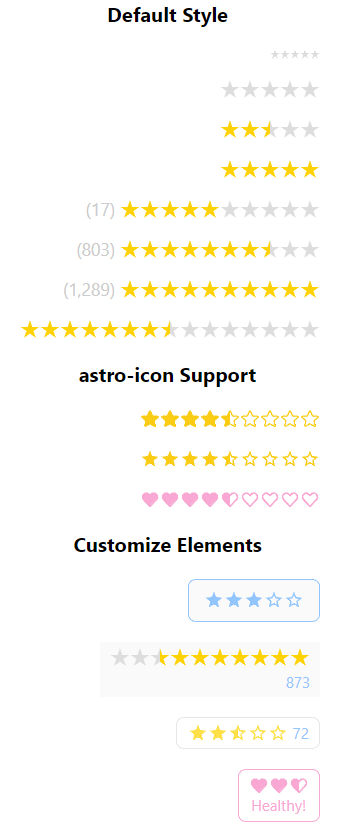
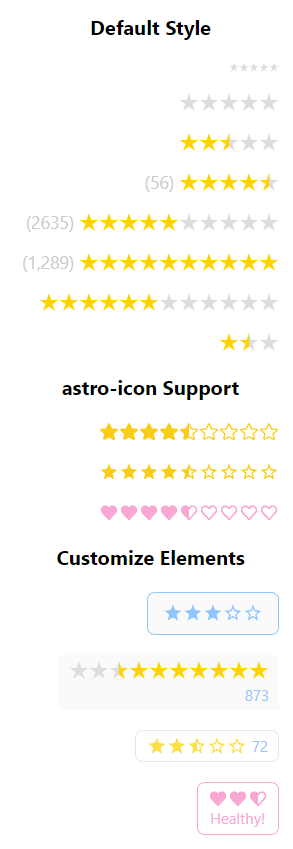
Add Rating

diff --git a/packages/rating/README.md b/packages/rating/README.md
@@ -1,159 +1,158 @@
-# @astro-bryceguy/pagination
+# @astro-bryceguy/rating
 
-This component is a fork/refactor of [https://github.com/iozcelik/SarissaPagination](https://github.com/iozcelik/SarissaPagination)
-
-A pagination component that uses [astro-json-element](https://github.com/BryceRussell/astro-json-element) to give you full control over every aspect of your pagination element
-
-[Tailwindcss](https://tailwindcss.com) is an easy way to style [astro-json-elements](https://github.com/BryceRussell/astro-json-element) without having to create global stylesheet or use inline styles
+A component that uses stars to display a rating for reviews, products, comments, etc
 
 ## Features
 
-- Customize how many page numbers are shown at the start, middle, and end
-- Fully customize every elements tag, text, innerHTML, and attributes using [astro-json-element](https://github.com/BryceRussell/astro-json-element)
-- Add commas to page numbers
-- String number compatibility
+- Shows a rate (2/5, 7.5/10, etc) using stars
+- Supports displaying half stars
+- Uses astro-icon to serve star icon svgs
+- Fully customize every elements tag, text, innerHTML, and attributes using [astro-json-elements](https://github.com/BryceRussell/astro-json-element)
+
+__NOTE:__ astro-json-elements can only be styled using inline styles or global stylesheets with classes, use [Tailwindcss](https://github.com/withastro/astro/tree/main/packages/integrations/tailwind#readme) for easy styling
 
 ## How to use
 
-__Install package:__
+__Install:__
+```
+npm i @astro-bryceguy-rating
+```
+
+__Add to astro config:__
+```
+export default defineConfig({
+  vite: {
+    ssr: {
+      external: ["svgo"],
+    },
+  },
+});
+```
+
+__Default Styling:__
+```
+<Rating max="10" rate="10" total="1289" defaults={true}/>
+```
+
+## astro-icon
+
+Define the ```active```, ```half```, and ```inactive``` stars [astro-icons](https://github.com/natemoo-re/astro-icon#readme) properties inside of the ```icon``` prop
 
 ```
-npm i @astro-bryceguy/pagination
-```
-
-![Default](https://raw.githubusercontent.com/BryceRussell/astro-bryceguy/master/packages/pagination/examples/default.PNG)
-
-```
-//Default styling
-<Pagination url="/posts" total="22" current="11" defaults={true}></Pagination>
+//Uses tailwindcss to style
+<Rating {...{
+    rate: "4.5",
+    max: "9",
+    class: "flex items-center gap-1",
+    icon: {
+        active: {
+            name: "line-md:heart-filled"
+        },
+        half: {
+            name: "line-md:heart-filled-half"
+        },
+        inactive: {
+            name: "line-md:heart"
+        },
+        class: "text-pink-300 w-4 h-4"
+    }
+}}/>
 ```
 
 ## Examples
 
-![Pagination](https://raw.githubusercontent.com/BryceRussell/astro-bryceguy/master/packages/pagination/examples/pagination.PNG)
+```
+<Rating {...{
+    rate: "3",
+    max: "5",
+    tag: "section",
+    class: "flex flex-col-reverse items-center py-2 px-3 rounded-md bg-neutral-50 border border-blue-300",
+    icon: {
+        active: {
+            name: "mdi:star"
+        },
+        half: {
+            name: "mdi:star-half-full"
+        },
+        inactive: {
+            name: "mdi:star-outline"
+        },
+        class: "text-blue-300 w-4 h-4"
+    }
+}}/>
+```
 
 ```
-<Pagination url="/posts" total="22" current="11" defaults={true}></Pagination>
-<Pagination url="/posts" total="22" current="11" start="5" end="1" middle="1" defaults={true}></Pagination>
-<Pagination url="/posts" total="22" current="11" start="1" end="5" middle="1" defaults={true}></Pagination>
-<Pagination url="/posts" total="22" current="11" start="5" end="5" middle="1" defaults={true}></Pagination>
-<Pagination url="/posts" total="22" current="11" start="1" end="1" middle="5" defaults={true}></Pagination>
-<Pagination url="/posts" total="9999" current="1000" defaults={true}></Pagination>
-<Pagination url="/posts" total="9999" current="1000" commas={false} defaults={true}></Pagination>
-<Pagination url="/posts" total="12" current="6" collapse={false} defaults={true}></Pagination>
-<Pagination url="/posts" total="12" current="6" style="display:flex;gap:.5rem;"></Pagination>
-<!-- Custom Tailwindcss Example -->
-<Pagination {...{
-    url: "/posts",
-    total: "9999",
-    current: "1000",
-    class: "flex items-center gap-1",
-    button: {
-        class: "relative flex-nowrap inline-flex items-center px-3 py-1 rounded-3xl border text-sm font-medium"
+<Rating {...{
+    rate: "7.5",
+    max: "10",
+    class: "flex flex-col-reverse items-end gap-1 py-1 px-2 bg-neutral-50",
+    _span: {
+        tag: "span",
+        text: "873",
+        class: "text-xs text-blue-300"
     },
-    active: {
-        class: "relative flex-nowrap inline-flex items-center px-3 py-1 rounded-3xl border border-purple-400 text-sm font-medium bg-purple-500 text-white"
+    icons: {
+        class: "flex flex-row-reverse items-center"
     },
-    disabled: {
-        text: "",
-        class: "leading-none flex items-center px-3"
+    icon: {
+        half: {
+            style: "transform:scale(-1, 1);"
+        },
+        class: "text-yellow-300 w-4 h-4"
+    }
+}}/>
+```
+
+```
+<Rating {...{
+    rate: "2.5",
+    max: "5",
+    class: "flex flex-row-reverse items-center gap-1 py-1 px-2 rounded-md border",
+    _span: {
+        tag: "span",
+        text: "72",
+        class: "text-xs text-blue-300"
     },
-}}></Pagination>
+    icons: {
+        class: "flex items-center"
+    },
+    icon: {
+        active: {
+            name: "mdi:star"
+        },
+        half: {
+            name: "mdi:star-half-full"
+        },
+        inactive: {
+            name: "mdi:star-outline"
+        },
+        class: "text-yellow-300 w-4 h-4",
+    }
+}}/>
 ```
 
-## API
-
-## Slots
-
-### Default
-
-Children will be slotted after all page number elements by default
-
-### first
-
-Use slot "first" to slot children in front of all page number elements
-
-## Props
-
 ```
-export interface Props {
-	url: string;
-	total: string|number;
-	current: string|number;
-	start: string|number;
-	end?: string|number;
-	middle?: string|number;
-	button?: {};
-	active?: {};
-	disabled?: {};
-	defaults?: boolean;
-	commas?: boolean;
-	collapse?: boolean;
-	[attrs: string]: any;
-}
+<Rating {...{
+    rate: "2.5",
+    max: "3",
+    class: "flex flex-col-reverse items-center py-1 px-2 rounded-md border border-pink-300",
+    _span: {
+        tag: "span",
+        text: "Healthy!",
+        class: "text-xs text-pink-300"
+    },
+    icon: {
+        active: {
+            name: "line-md:heart-filled"
+        },
+        half: {
+            name: "line-md:heart-filled-half"
+        },
+        inactive: {
+            name: "line-md:heart"
+        },
+        class: "text-pink-300 w-4 h-4"
+    }
+}}/>
 ```
-
-### url
-Type|Default|Description
----|---|---
-string||root url for page link: ```"blog/posts"``` -> ```"blog/posts/1", "blog/posts/2"```, etc
-
-### total
-Type|Default|Description
----|---|---
-string \| number||total number of pages
-
-### current
-Type|Default|Description
----|---|---
-string \| number||current page number
-
-### start
-Type|Default|Description
----|---|---
-string \| number|2|number of pages to display at the start
-
-### end
-Type|Default|Description
----|---|---
-string \| number|2|number of pages to display at the end
-
-### middle
-Type|Default|Description
----|---|---
-string \| number|2|number of pages to display on either side of the current active page
-
-### button
-Type|Default|Description
----|---|---
-[astro-json-element](https://github.com/BryceRussell/astro-json-element) object||define the default page number element using [astro-json-element](https://github.com/BryceRussell/astro-json-element) objects
-
-### active
-Type|Default|Description
----|---|---
-[astro-json-element](https://github.com/BryceRussell/astro-json-element) object||define the active page number element using [astro-json-element](https://github.com/BryceRussell/astro-json-element) objects
-
-### disabled
-Type|Default|Description
----|---|---
-[astro-json-element](https://github.com/BryceRussell/astro-json-element) object||define the disabled page number element using [astro-json-element](https://github.com/BryceRussell/astro-json-element) objects
-
-### defaults
-Type|Default|Description
----|---|---
-boolean|false|uses built in default styling if true
-
-### commas
-Type|Default|Description
----|---|---
-boolean|true|uses commas in page numbers if true
-
-### collapse
-Type|Default|Description
----|---|---
-boolean|true|if true only the pages defined using the current, ends, and middle props will be shown, if false a page number element will appear for every page number
-
-### ...attrs
-Type|Default|Description
----|---|---
-[astro-json-element](https://github.com/BryceRussell/astro-json-element) object||all other props will define the div wrapper using [astro-json-element](https://github.com/BryceRussell/astro-json-element) object attributes

diff --git a/packages/pagination/README.md b/packages/pagination/README.md
@@ -9,7 +9,7 @@ A pagination component that uses [astro-json-element](https://github.com/BryceRu
 ## Features
 
 - Customize how many page numbers are shown at the start, middle, and end
-- Fully customize every elements tag, text, innerHTML, and attributes using [astro-json-element](https://github.com/BryceRussell/astro-json-element)
+- Fully customize every elements tag, text, innerHTML, and attributes using [astro-json-elements](https://github.com/BryceRussell/astro-json-element)
 - Add commas to page numbers
 - String number compatibility
 
